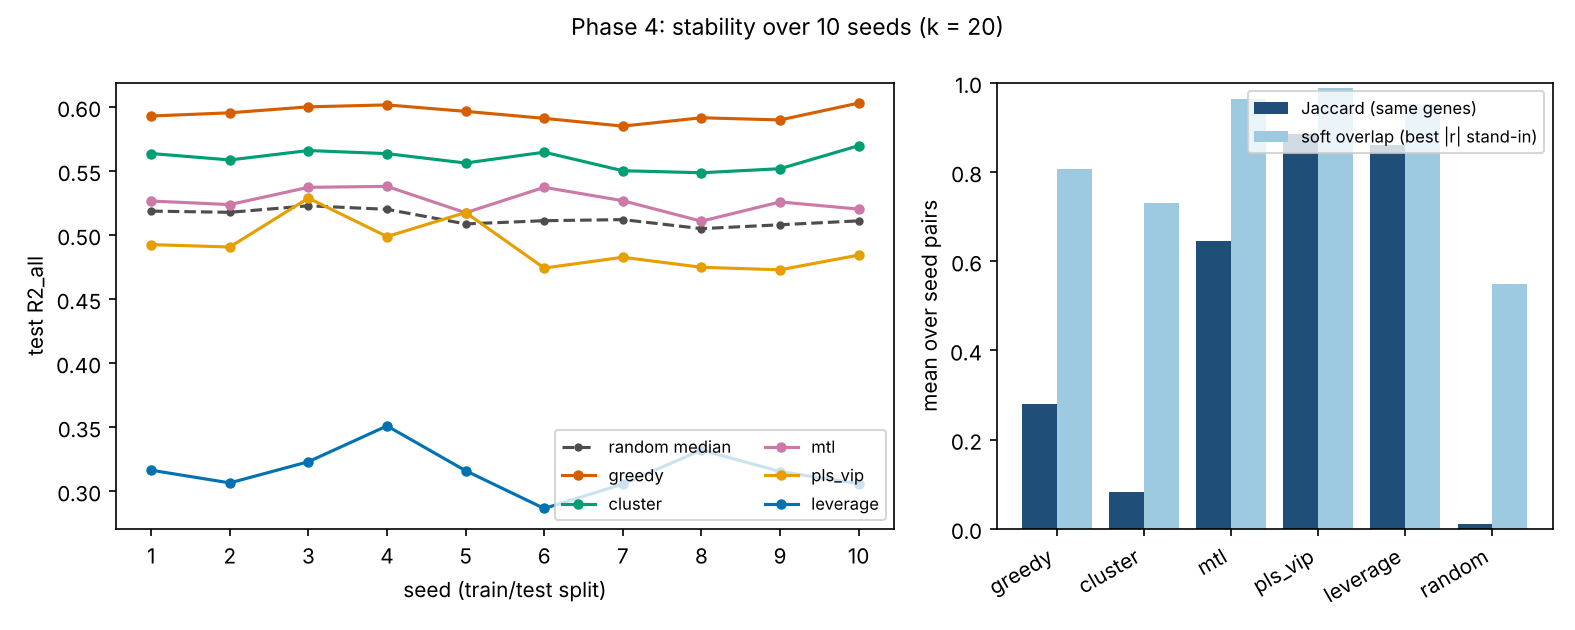
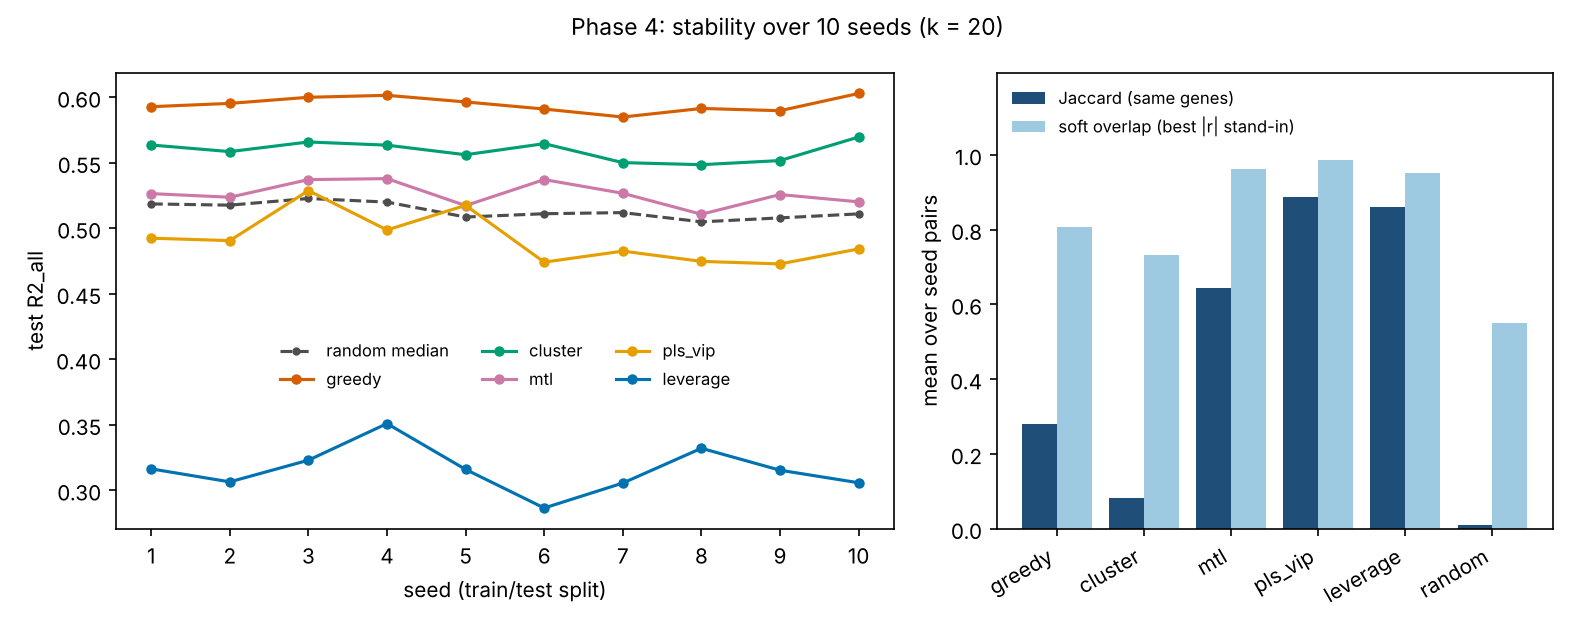
Phase 4 plot: keep legends clear of the data
Claude-Session: https://claude.ai/code/session_013aoA6AZjWqgAzo1BqRrg1Z

diff --git a/src/panel/plots.py b/src/panel/plots.py
@@ -59,7 +59,7 @@ def plot_stability(seeds, r2_by_method: dict, rand_median, jaccard: dict, soft: 
     a1.set_xticklabels([str(s) for s in seeds])
     a1.set_xlabel("seed (train/test split)")
     a1.set_ylabel("test R2_all")
-    a1.legend(fontsize=8, ncol=2, loc="lower right")
+    a1.legend(fontsize=8, ncol=3, loc="center", bbox_to_anchor=(0.5, 0.36), frameon=False)
     names = list(jaccard)
     xb = np.arange(len(names))
     a2.bar(xb - 0.2, [jaccard[n] for n in names], width=0.4, color="#1f4e79", label="Jaccard (same genes)")
@@ -67,9 +67,10 @@ def plot_stability(seeds, r2_by_method: dict, rand_median, jaccard: dict, soft: 
            label="soft overlap (best |r| stand-in)")
     a2.set_xticks(xb)
     a2.set_xticklabels(names, rotation=30, ha="right")
-    a2.set_ylim(0, 1)
+    a2.set_ylim(0, 1.22)
+    a2.set_yticks(np.arange(0, 1.01, 0.2))
     a2.set_ylabel("mean over seed pairs")
-    a2.legend(fontsize=8, loc="upper right")
+    a2.legend(fontsize=8, loc="upper left", ncol=1, frameon=False)
     fig.suptitle(title, fontsize=11)
     return _save(fig, out_path)
 
